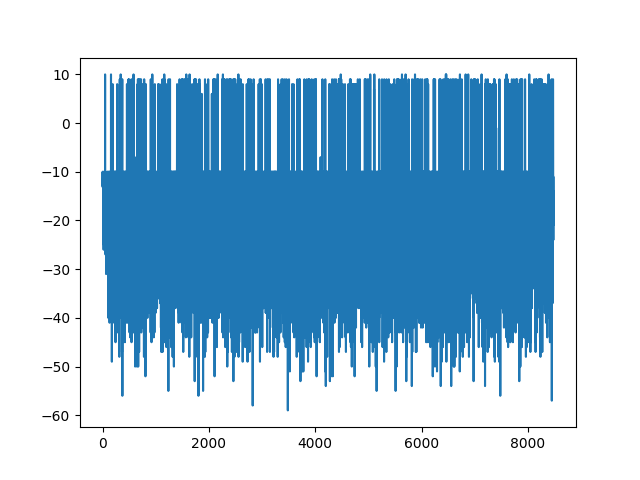
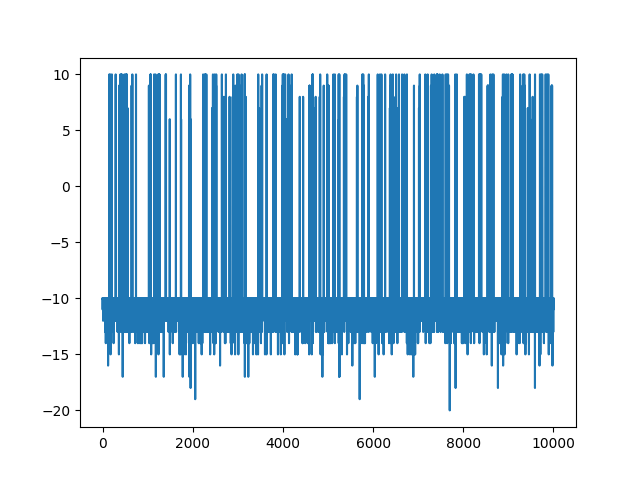
media movel added to plots

diff --git a/modules/qlearning.py b/modules/qlearning.py
@@ -11,6 +11,8 @@ def qLearning(
     stateDic = {}
     all_epochs = []
     epoch_rewards = []
+    every_5 = []
+    mean_every_5 = []
 
     for e in range(epochs):
 
@@ -36,11 +38,20 @@ def qLearning(
 
             if next_state.is_terminal:
                 epoch_rewards.append(epoch_reward)
+                every_5.append(epoch_reward)
                 break
 
             current_state = next_state
+        if(e % 5 == 0):
+            mean_every_5.append(sum(every_5) / len(every_5))
+            every_5 = [] 
         
-    print(all_epochs, epoch_rewards)
-    plt.plot(all_epochs[:len(epoch_rewards)], epoch_rewards)
+    plt.plot(epoch_rewards)
     plt.savefig('reward_cumulative.png')
+    plt.show()
+
+    plt.plot(mean_every_5)
+    plt.savefig('mean_every5.png')
+    plt.show()
+    
     return stateDic
